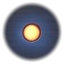
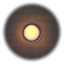
Varredura de UX/UI: menu, valores editáveis, dicas e acabamento
- Botão de menu visível (presets, tamanho da interface, versão, dicas);
  antes o menu só existia no clique direito
- Valores embaixo dos knobs são editáveis (clique para digitar)
- Tooltips em todos os controles
- Drive e Blend esmaecidos com o ENGAGE desligado
- Afinador: dica 'PLAY A STRING' sem sinal e selo MUTE em destaque
- Arte: halo do LED do CAB em tom quente (vinha azulado); régua do
  rodapé afastada da moldura e sem restos do texto antigo

Claude-Session: https://claude.ai/code/session_01UHzrWYC5rSokpECmtT3qnZ

Changed region(s): [[0.1562, 0.1562, 0.875, 0.875]]

diff --git a/Source/PluginEditor.cpp b/Source/PluginEditor.cpp
@@ -18,6 +18,16 @@ namespace
     const Colour smallLabelColour { 0xff8e939a };
 
     const char* knobTitles[] = { "Level", "Drive", "Low", "Mid", "High", "Presence", "Blend" };
+    const char* knobTips[] = {
+        "Volume de saída",
+        "Ganho antes da saturação (ativo com o ENGAGE ligado)",
+        "Graves (80 Hz)",
+        "Médios (600 Hz)",
+        "Agudos (2,5 kHz)",
+        "Presença e ataque (5 kHz)",
+        "Mistura do som limpo com o saturado (ativo com o ENGAGE ligado)" };
+    const char* knobHint = "\nShift: ajuste fino  |  Duplo clique: valor padrão";
+    constexpr size_t driveKnob = 1, blendKnob = 6;   // dependem do ENGAGE
 }
 
 //==============================================================================
@@ -126,6 +136,15 @@ void HotSpot::mouseUp (const MouseEvent& e)
 }
 
 //==============================================================================
+void MenuButton::paintButton (Graphics& g, bool highlighted, bool down)
+{
+    auto r = getLocalBounds().toFloat().withSizeKeepingCentre (15.0f, 11.0f);
+    g.setColour (down ? Colours::white : (highlighted ? valueColour : smallLabelColour.withAlpha (0.85f)));
+    for (int i = 0; i < 3; ++i)
+        g.fillRoundedRectangle (r.getX(), r.getY() + (float) i * 4.6f, r.getWidth(), 1.8f, 0.9f);
+}
+
+//==============================================================================
 void TunerDisplay::restart()
 {
     hasNote = false;
@@ -192,7 +211,13 @@ void TunerDisplay::paint (Graphics& g)
     g.setFont (small);
     g.setColour (dim);
     g.drawText ("TUNER", header, Justification::centredLeft, false);
-    g.drawText ("A4 = 440 Hz    MUTE", header, Justification::centredRight, false);
+    auto pill = header.removeFromRight (44.0f).withSizeKeepingCentre (44.0f, 15.0f);
+    g.setColour (amber.withAlpha (0.16f));
+    g.fillRoundedRectangle (pill, 7.5f);
+    g.setColour (amber);
+    g.drawText ("MUTE", pill.translated (0.8f, 0.0f), Justification::centred, false);
+    g.setColour (dim);
+    g.drawText ("A4 = 440 Hz", header.withTrimmedRight (10.0f), Justification::centredRight, false);
 
     // Nota
     const float cx = b.getCentreX();
@@ -226,7 +251,10 @@ void TunerDisplay::paint (Graphics& g)
     {
         g.setFont (Font (FontOptions (assets.titleTypeface).withHeight (48.0f)));
         g.setColour (dim.withAlpha (0.6f));
-        g.drawText ("- -", noteArea, Justification::centred, false);
+        g.drawText ("- -", noteArea.translated (0.0f, -8.0f), Justification::centred, false);
+        g.setFont (small);
+        g.setColour (dim);
+        g.drawText ("PLAY A STRING", noteArea.withTop (noteArea.getBottom() - 16.0f), Justification::centred, false);
     }
 
     // Medidor: 41 segmentos de -50 a +50 cents
@@ -277,13 +305,42 @@ AuraPanel::AuraPanel (AuraBassAudioProcessor& p) : processor (p)
         auto* param = processor.apvts.getParameter (k.paramId);
         knob->setDoubleClickReturnValue (true, param->convertFrom0to1 (param->getDefaultValue()));
         knob->textFromValueFunction = [param] (double v) { return param->getText (param->convertTo0to1 ((float) v), 0); };
-        knob->onValueChange = [this, i] { repaintKnobArea (i); };
+        knob->setTooltip (String::fromUTF8 (knobTips[i]) + String::fromUTF8 (knobHint));
+        knob->onValueChange = [this, i] { refreshValue (i); repaintKnobArea (i); };
+
+        // Valor embaixo do knob: clique para digitar
+        auto label = std::make_unique<Label>();
+        label->setFont (assets->valueFont);
+        label->setJustificationType (Justification::centred);
+        label->setColour (Label::textColourId, valueColour);
+        label->setColour (Label::backgroundWhenEditingColourId, Colour (0xff0b0d10));
+        label->setColour (Label::textWhenEditingColourId, Colours::white);
+        label->setColour (Label::outlineWhenEditingColourId, smallLabelColour);
+        label->setColour (TextEditor::highlightColourId, Colour (0xff3a5a80));
+        label->setEditable (true, false, true);
+        label->setMouseCursor (MouseCursor::IBeamCursor);
+        label->setTooltip (String::fromUTF8 ("Clique para digitar um valor"));
+        label->setBounds (Rectangle<float> (78.0f, 20.0f).withCentre ({ k.valueX, L::valueY }).getSmallestIntegerContainer());
+        label->onTextChange = [this, i] { commitValue (i); };
+        addAndMakeVisible (*label);
+        valueLabels.push_back (std::move (label));
         knob->onContextMenu = [this, param] { if (onParameterContextMenu) onParameterContextMenu (*param); };
         knobs.push_back (std::move (knob));
     }
 
+    for (size_t i = 0; i < knobs.size(); ++i)
+        refreshValue (i);
+
     driveSpot.setTitle ("Drive engage");
     cabSpot.setTitle ("Cab");
+    driveSpot.setTooltip (String::fromUTF8 ("Liga e desliga a distorção. O EQ e o CAB continuam ativos"));
+    cabSpot.setTooltip (String::fromUTF8 ("Liga e desliga a simulação de caixa"));
+    tunerSpot.setTooltip (String::fromUTF8 ("Afinador (a saída fica muda enquanto ligado)"));
+
+    menuButton.setTooltip (String::fromUTF8 ("Menu: presets, tamanho da interface e dicas"));
+    menuButton.setBounds (toInt (L::menuButton));
+    menuButton.onClick = [this] { showMainMenu (true); };
+    addAndMakeVisible (menuButton);
     addAndMakeVisible (driveSpot);
     addAndMakeVisible (cabSpot);
     driveSpot.onStateChange = [this] { repaint (square (L::driveSwitchX, L::driveSwitchY, L::driveSwitchDownHalf).getSmallestIntegerContainer()); };
@@ -295,6 +352,7 @@ AuraPanel::AuraPanel (AuraBassAudioProcessor& p) : processor (p)
     tunerAttachment = std::make_unique<AudioProcessorValueTreeState::ButtonAttachment> (processor.apvts, ParamIDs::tuner, tunerSpot);
     addChildComponent (tunerDisplay);
     tunerDisplay.setBounds (toInt (L::tunerDisplay));
+    tunerDisplay.toFront (false);
 
     for (auto [spot, id] : { std::pair<HotSpot*, const char*> { &driveSpot, ParamIDs::driveOn }, { &cabSpot, ParamIDs::cab }, { &tunerSpot, ParamIDs::tuner } })
     {
@@ -317,6 +375,38 @@ String AuraPanel::formatValue (const String& id, float v)
     if (id == ParamIDs::blend) return String (roundToInt (v)) + "%";
     if (std::abs (v) < 0.05f) v = 0.0f;
     return String (v, 1) + " dB";
+}
+
+void AuraPanel::refreshValue (size_t index)
+{
+    if (index < valueLabels.size() && ! valueLabels[index]->isBeingEdited())
+        valueLabels[index]->setText (formatValue (L::knobs[index].paramId, (float) knobs[index]->getValue()), dontSendNotification);
+}
+
+void AuraPanel::commitValue (size_t index)
+{
+    // Aceita "3", "-4,5", "60%", "+2 dB"; texto sem número mantém o valor atual
+    const auto digits = valueLabels[index]->getText().retainCharacters ("0123456789.,-+").replaceCharacter (',', '.');
+    if (digits.containsAnyOf ("0123456789"))
+        if (auto* param = processor.apvts.getParameter (L::knobs[index].paramId))
+        {
+            const auto range = param->getNormalisableRange();
+            const float v = range.snapToLegalValue (jlimit (range.start, range.end, digits.getFloatValue()));
+            param->beginChangeGesture();
+            param->setValueNotifyingHost (range.convertTo0to1 (v));
+            param->endChangeGesture();
+        }
+    refreshValue (index);
+}
+
+void AuraPanel::updateDriveDim()
+{
+    // Com o ENGAGE desligado, Drive e Blend não atuam: ficam esmaecidos
+    for (size_t i : { driveKnob, blendKnob })
+    {
+        valueLabels[i]->setColour (Label::textColourId, driveOn ? valueColour : smallLabelColour.withAlpha (0.55f));
+        repaintKnobArea (i);
+    }
 }
 
 void AuraPanel::repaintKnobArea (size_t index)
@@ -348,6 +438,7 @@ void AuraPanel::timerCallback()
     {
         driveOn = d;
         repaint (square (L::driveLedX, L::driveLedY, L::driveLedHalf).getSmallestIntegerContainer());
+        updateDriveDim();
     }
     if (c != cabOn || irVersion != cabIrVersion)
     {
@@ -373,6 +464,7 @@ void AuraPanel::paint (Graphics& g)
         const float r = L::arcLitRadius;
         const auto area = Rectangle<float> (k.cx - r, k.cy + L::arcCentreDy - r, 2 * r, 2 * r);
         if (! clip.intersects (area)) continue;
+        if (! driveOn && (i == driveKnob || i == blendKnob)) continue;
 
         const float norm = (float) knobs[i]->valueToProportionOfLength (knobs[i]->getValue());
         const float end = degreesToRadians (-L::arcMaxDeg + norm * 2.0f * L::arcMaxDeg);
@@ -405,19 +497,22 @@ void AuraPanel::paint (Graphics& g)
 
 void AuraPanel::paintOverChildren (Graphics& g)
 {
-    if (tunerOn) return;   // o visor do afinador cobre os valores
+    if (tunerOn) return;   // o visor do afinador cobre os knobs
 
     const auto& font = assets->valueFont;
     g.setFont (font);
 
-    // Valores ao vivo embaixo de cada knob
-    g.setColour (valueColour);
-    for (size_t i = 0; i < knobs.size(); ++i)
-    {
-        const auto& k = L::knobs[i];
-        g.drawText (formatValue (k.paramId, (float) knobs[i]->getValue()),
-                    Rectangle<float> (110.0f, 20.0f).withCentre ({ k.valueX, L::valueY }), Justification::centred, false);
-    }
+    // ENGAGE desligado: sombra suave sobre os knobs Drive e Blend
+    if (! driveOn)
+        for (size_t i : { driveKnob, blendKnob })
+        {
+            const auto& k = L::knobs[i];
+            const float r = 43.0f;
+            ColourGradient shade (Colours::black.withAlpha (0.42f), k.cx, k.cy + 2.0f, Colours::transparentBlack, k.cx + r, k.cy + 2.0f, true);
+            shade.addColour (0.80, Colours::black.withAlpha (0.42f));
+            g.setGradientFill (shade);
+            g.fillEllipse (k.cx - r, k.cy + 2.0f - r, 2 * r, 2 * r);
+        }
 
     // Seletor da IR do CAB: na mesma linha e no mesmo tamanho dos valores, com a seta colada
     const auto name = cabIrName.length() > 7 ? cabIrName.substring (0, 6) + String::fromUTF8 ("…") : cabIrName;
@@ -441,7 +536,7 @@ void AuraPanel::mouseMove (const MouseEvent& e)
 void AuraPanel::mouseDown (const MouseEvent& e)
 {
     if (! tunerOn && cabIrArea().contains (e.position)) { showCabMenu(); return; }
-    if (e.mods.isPopupMenu()) { showScaleMenu(); return; }   // clique direito: tamanho da interface
+    if (e.mods.isPopupMenu()) { showMainMenu (false); return; }   // clique direito: menu do plugin
 }
 
 void AuraPanel::showCabMenu()
@@ -494,19 +589,39 @@ void AuraPanel::chooseIrFile()
     });
 }
 
-void AuraPanel::showScaleMenu()
+void AuraPanel::showMainMenu (bool fromButton)
 {
     PopupMenu m;
     m.addSectionHeader ("AURA Bass " + String (JucePlugin_VersionString));
-    m.addSeparator();
-    m.addSectionHeader ("Tamanho da interface");
+
+    PopupMenu presets;
+    for (int i = 0; i < processor.getNumPrograms(); ++i)
+        presets.addItem (100 + i, processor.getProgramName (i));
+    m.addSubMenu ("Presets", presets);
+
+    PopupMenu size;
     const float scales[] = { 1.0f, 1.25f, 1.5f };
     for (int i = 0; i < 3; ++i)
-        m.addItem (1 + i, String (roundToInt (scales[i] * 100.0f)) + "%", true, std::abs (scales[i] - currentScale) < 0.01f);
-    m.showMenuAsync (PopupMenu::Options().withTargetComponent (this),
-                     [safe = SafePointer<AuraPanel> (this), scales] (int r)
+        size.addItem (1 + i, String (roundToInt (scales[i] * 100.0f)) + "%", true, std::abs (scales[i] - currentScale) < 0.01f);
+    m.addSubMenu ("Tamanho da interface", size);
+
+    m.addSeparator();
+    m.addSectionHeader ("Dicas");
+    for (auto tip : { "Shift + arrastar: ajuste fino",
+                      "Duplo clique no knob: valor padrão",
+                      "Clique no valor: digitar",
+                      "Clique no nome da caixa (4x10): trocar a IR",
+                      "TUNER: afinador (saída muda)" })
+        m.addItem (-1, String::fromUTF8 (tip), false);
+
+    auto options = PopupMenu::Options().withTargetComponent (fromButton ? static_cast<Component*> (&menuButton) : this);
+    if (! fromButton) options = options.withMousePosition();
+    m.showMenuAsync (options, [safe = SafePointer<AuraPanel> (this), scales] (int r)
     {
-        if (safe != nullptr && r >= 1 && r <= 3 && safe->onScaleChosen)
+        if (safe == nullptr) return;
+        if (r >= 100)
+            safe->processor.setCurrentProgram (r - 100);
+        else if (r >= 1 && r <= 3 && safe->onScaleChosen)
             safe->onScaleChosen (scales[r - 1]);
     });
 }
@@ -545,7 +660,7 @@ void AuraBassAudioProcessorEditor::showHostMenu (RangedAudioParameter& param)
             return;
         }
     // DAW sem menu de parâmetro (ex.: AU no Logic): mostra o menu do próprio plugin
-    panel.showScaleMenu();
+    panel.showMainMenu (false);
 }
 
 void AuraBassAudioProcessorEditor::setScale (float scale)

diff --git a/Tools/build_ui_assets.py b/Tools/build_ui_assets.py
@@ -81,7 +81,7 @@ LED_CAB = (LED_CAB[0], LED_CAB[1] + DY, LED_CAB[2])
 TOGGLE_CENTER = (TOGGLE_CENTER[0], TOGGLE_CENTER[1] + DY)
 
 # Microtextos ilegíveis da arte (substituídos por textos reais)
-MICRO_WIPES = [(1022, 266, 1182, 324), (932, 876, 1132, 924)]
+MICRO_WIPES = [(1022, 266, 1182, 324), (926, 868, 1140, 934)]
 
 
 def load(name):
@@ -289,8 +289,8 @@ def draw_microprint(img, plate, roboto):
 
     ruler(1040, 1160, 286, False)
     d.text((1040, 314), "MODEL AB-1   SER. 0417", font=roboto(12), fill=255, anchor="ls")
-    ruler(960, 1110, 920, True)
-    d.text((960, 902), "HANDMADE IN BRAZIL", font=roboto(12), fill=255, anchor="ls")
+    ruler(960, 1110, 906, True)
+    d.text((960, 888), "HANDMADE IN BRAZIL", font=roboto(12), fill=255, anchor="ls")
     a = (np.asarray(layer).astype(np.float32) / 255.0 * 0.85)[..., None]
     img[:] = img * (1 - a) + np.array((112, 114, 119), np.float32) * a
 
@@ -347,7 +347,19 @@ def main():
         erase_text(img, plate, r)
 
     # 3) LED do CAB: aceso (sobreposição) e apagado no fundo
-    led_cab_on = crop_rgba(layout, LED_CAB[0], LED_CAB[1], LED_HALF)
+    # O brilho em volta do LED laranja vinha azulado na arte: recolore o halo em tom quente
+    warm = layout.copy()
+    lx, ly, lr = LED_CAB
+    hx0, hy0 = int(round(lx)) - LED_HALF, int(round(ly)) - LED_HALF
+    ys, xs = np.mgrid[hy0:hy0 + 2 * LED_HALF, hx0:hx0 + 2 * LED_HALF].astype(np.float32)
+    dist = np.sqrt((xs - lx) ** 2 + (ys - ly) ** 2)
+    on_p = warm[hy0:hy0 + 2 * LED_HALF, hx0:hx0 + 2 * LED_HALF]
+    base_p = plate[hy0:hy0 + 2 * LED_HALF, hx0:hx0 + 2 * LED_HALF]
+    glow = np.clip(lum(on_p) - lum(base_p), 0, None)[..., None]
+    halo = base_p + glow * np.array((2.6, 1.15, 0.25), np.float32)
+    outside = smoothstep(lr + 0.5, lr + 3.0, dist)[..., None]
+    warm[hy0:hy0 + 2 * LED_HALF, hx0:hx0 + 2 * LED_HALF] = on_p * (1 - outside) + halo * outside
+    led_cab_on = crop_rgba(warm, LED_CAB[0], LED_CAB[1], LED_HALF)
     led_off(img, plate, *LED_CAB, tint=(200, 100, 30))
 
     # 3b) Botão DRIVE: troca o botão power por um footswitch de pisar

diff --git a/Source/PluginEditor.h b/Source/PluginEditor.h
@@ -55,6 +55,15 @@ private:
 };
 
 //==============================================================================
+// Botão de menu: três traços discretos, no tom dos textos do painel
+class MenuButton : public juce::Button
+{
+public:
+    MenuButton() : juce::Button ("Menu") { setMouseCursor (juce::MouseCursor::PointingHandCursor); }
+    void paintButton (juce::Graphics&, bool highlighted, bool down) override;
+};
+
+//==============================================================================
 // Visor do afinador: nota, desvio em cents e frequência. Cobre os knobs enquanto ligado.
 class TunerDisplay : public juce::Component
 {
@@ -93,13 +102,16 @@ public:
     float currentScale = 1.0f;
 
     static juce::String formatValue (const juce::String& paramId, float value);
-    void showScaleMenu();
+    void showMainMenu (bool fromButton);
 
 private:
     void timerCallback() override;
     void showCabMenu();
     void chooseIrFile();
     void repaintKnobArea (size_t index);
+    void refreshValue (size_t index);
+    void commitValue (size_t index);
+    void updateDriveDim();
     juce::Rectangle<float> cabIrArea() const;
 
     AuraBassAudioProcessor& processor;
@@ -107,6 +119,9 @@ private:
 
     std::vector<std::unique_ptr<PointerKnob>> knobs;
     std::vector<std::unique_ptr<juce::AudioProcessorValueTreeState::SliderAttachment>> knobAttachments;
+
+    std::vector<std::unique_ptr<juce::Label>> valueLabels;   // valores editáveis (clique para digitar)
+    MenuButton menuButton;
 
     HotSpot driveSpot, cabSpot, tunerSpot;
     std::unique_ptr<juce::AudioProcessorValueTreeState::ButtonAttachment> driveAttachment, cabAttachment, tunerAttachment;
@@ -134,6 +149,7 @@ private:
 
     AuraBassAudioProcessor& processor;
     AuraPanel panel;
+    juce::TooltipWindow tooltips { this, 900 };
 
     JUCE_DECLARE_NON_COPYABLE_WITH_LEAK_DETECTOR (AuraBassAudioProcessorEditor)
 };

diff --git a/Source/Layout.h b/Source/Layout.h
@@ -41,6 +41,9 @@ namespace AuraLayout
     // Visor do afinador (cobre os knobs enquanto o afinador está ligado)
     inline constexpr Rect tunerDisplay { 30.0f, 98.0f, 666.0f, 156.0f };
 
+    // Botão de menu (presets, tamanho da interface, dicas), no canto superior direito
+    inline constexpr Rect menuButton { 662.0f, 40.0f, 26.0f, 22.0f };
+
     // CAB (rótulo, LED laranja e chave alavanca)
     inline constexpr float cabLedX = 671.35f, cabLedY = 138.65f;
     inline constexpr float cabToggleX = 671.5f, cabToggleY = 175.0f;

diff --git a/README.md b/README.md
@@ -42,9 +42,15 @@ Toda IR é ajustada para 0 dB na faixa de 100 a 800 Hz, então ligar o CAB muda 
 
 No menu de presets da DAW: **AURA (padrão)**, **Clean DI**, **Grit leve**, **Drive pesado** e **Slap brilhante**.
 
-### Tamanho da interface e versão
+### Menu, tamanho da interface e versão
 
-Clique com o botão direito em qualquer parte vazia do painel para escolher 100%, 125% ou 150%. O mesmo menu mostra a versão instalada. O tamanho fica salvo na sessão.
+O ícone de três traços no canto superior direito (ou o clique direito numa parte vazia do painel) abre o menu do plugin: presets de fábrica, tamanho da interface (100%, 125% ou 150%, salvo na sessão), versão instalada e dicas de uso.
+
+### Uso dos controles
+
+- **Digitar valores:** clique no valor embaixo de um knob e digite ("3", "-4,5", "60%"). Enter confirma, Esc cancela.
+- **Dicas ao passar o mouse:** cada controle explica o que faz.
+- **ENGAGE desligado:** os knobs Drive e Blend ficam esmaecidos, porque não atuam.
 
 Nos knobs e botões, o clique direito abre o menu da DAW para aquele parâmetro (automação, MIDI learn), quando a DAW oferece um. Senão, abre o menu do plugin. Também dá para digitar valores direto na DAW ("3", "-4.5 dB", "60%").
 
